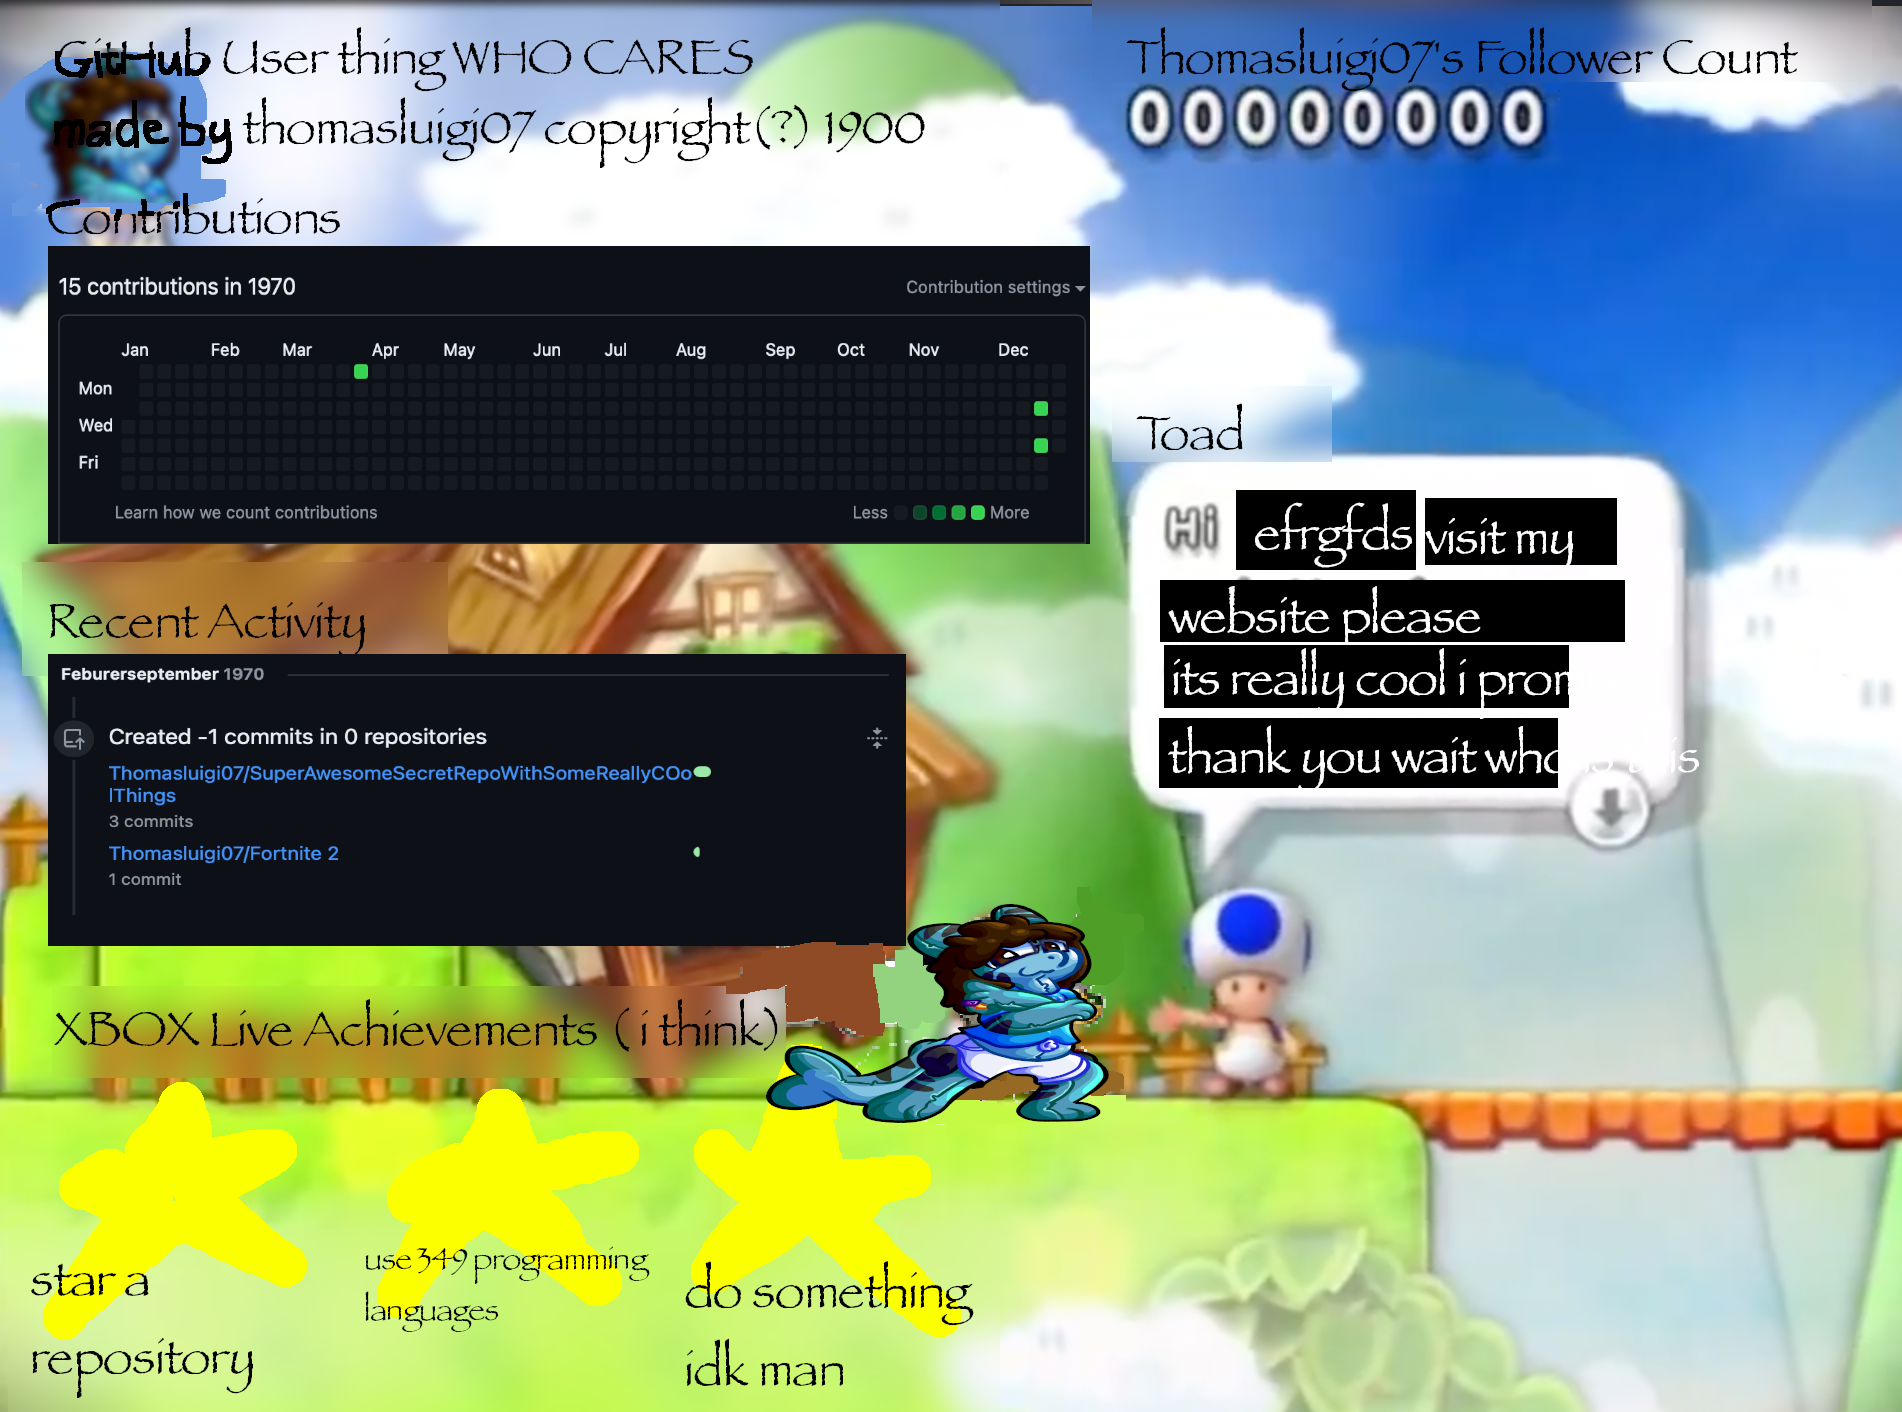
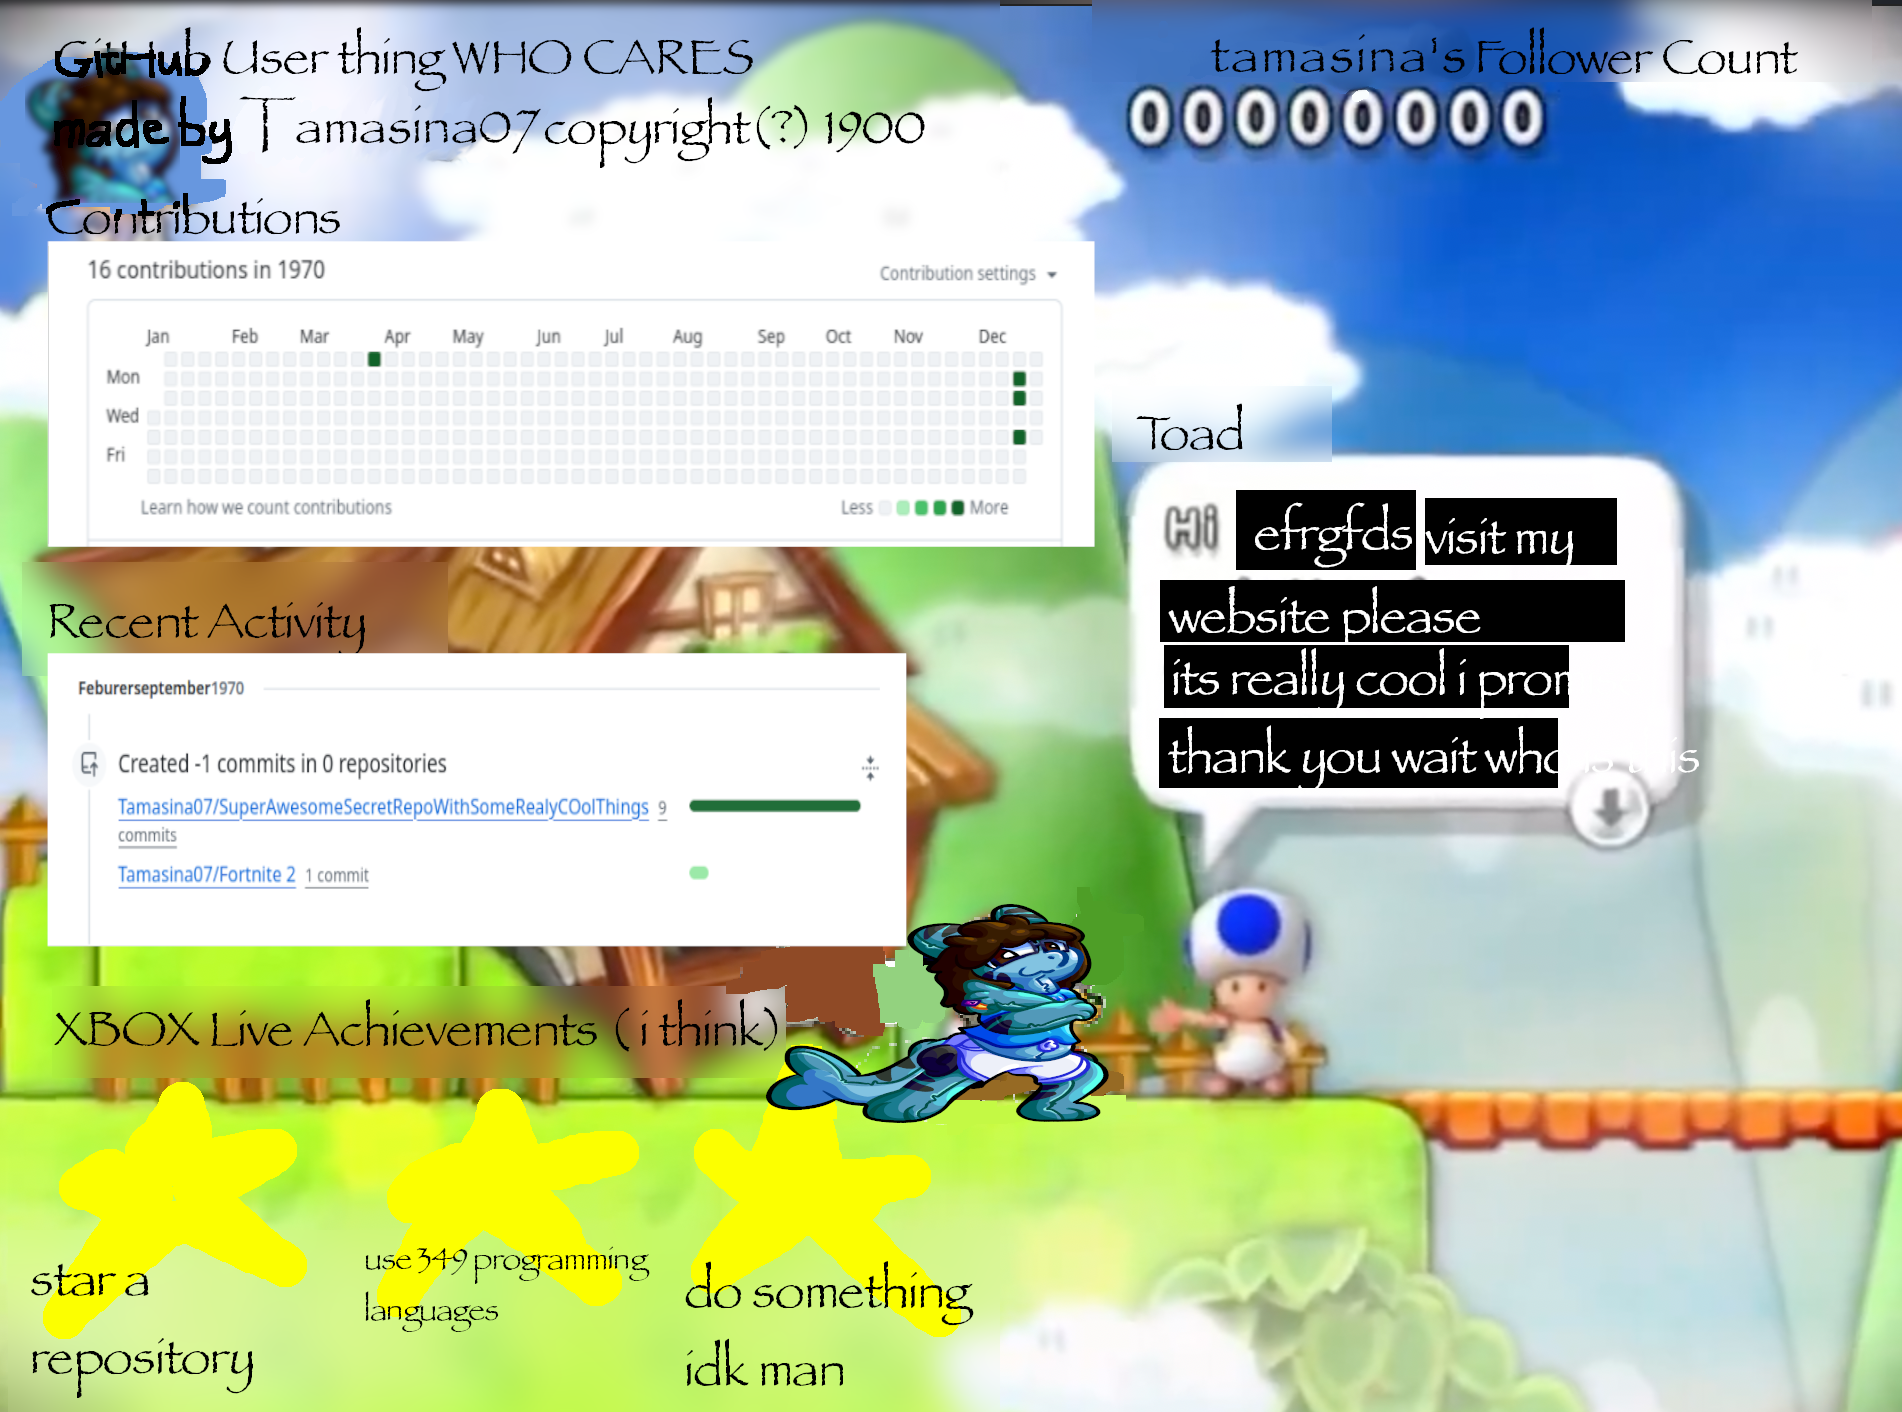
pennis

diff --git a/README.md b/README.md
@@ -1,7 +1,7 @@
-Hi, I'm Thomasluigi07. I'm 19. Wow.
+Hi, I'm Tamasina. I'm 19. Wow.
 
 I used to make Roblox games, but I make other stuff now. I also like using skeuomorphic design for pretty much all of my projects. Wow!
 
 
-[![https://thomasluigi07.com/](https://raw.githubusercontent.com/Thomasluigi07/Thomasluigi07/master/githubtracker.png)](https://thomasluigi07.com)
+[![https://thomasluigi07.com/](https://raw.githubusercontent.com/Tamasina07/Tamasina07/master/githubtracker.png)](https://thomasluigi07.com)
 Don't listen to Toad.
